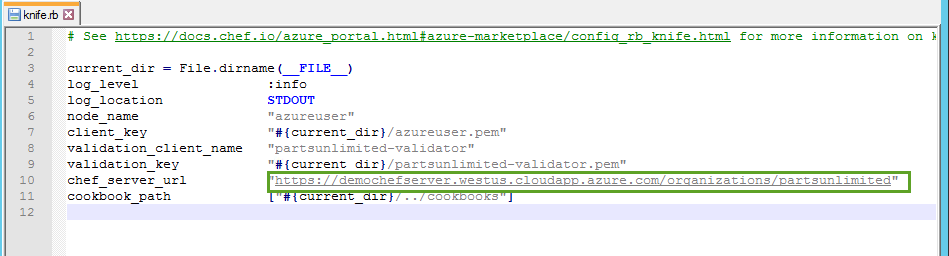
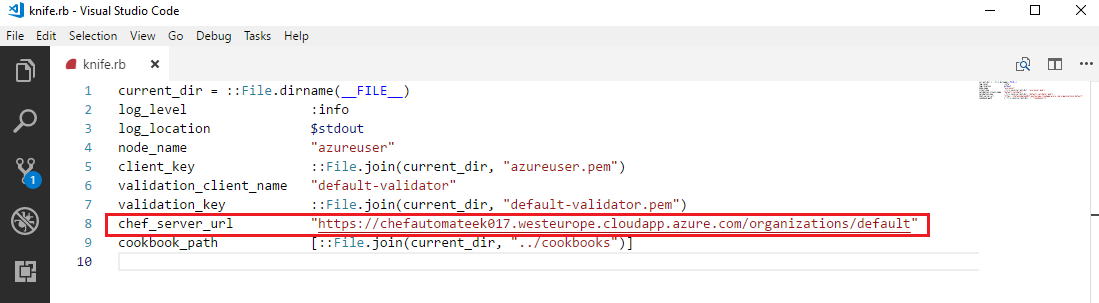
updated chef deployment on Azure lab steps

Changed region(s): [[0.0, 0.0, 1.0, 1.0], [0.9168, 0.0312, 0.9473, 0.0625]]

diff --git a/_posts/2018-01-08-200.2x-IaC-DeployappwithChefonAzure.md b/_posts/2018-01-08-200.2x-IaC-DeployappwithChefonAzure.md
@@ -238,9 +238,9 @@ In this exercise, you will configure your Chef Workstation by setting up the Che
 
 10. Extract the Chef starter kit files to a directory like `C:\Users\<username>\chef\`.
 
-7. In the starter kit the extracted files location, open the file `chef-repo\.chef\knife.rb` file and check that the `chef_server_url` to the external FQDN (e.g. **https://<chef-server-dns-name>.<region>.cloudapp.azure.com/organizations/partsunlimited**). Then, save and close the file.
+7. In the starter kit the extracted files location, open the file `chef-repo\.chef\knife.rb` file and check that the `chef_server_url` to the external FQDN is as below (e.g. **https://<chef-server-dns-name>.<region>.cloudapp.azure.com/organizations/default**). Then, save and close the file.
 
-	**Note**: If you have a different organization name present in the knife.rb file change it to partsunlimited organization
+	**Note**: If you have a different organization name present in the knife.rb file change it to the default organization.
 
 	![](../assets/pumrpdeploywithchef-jan2018/change_chef_url.png)
 
